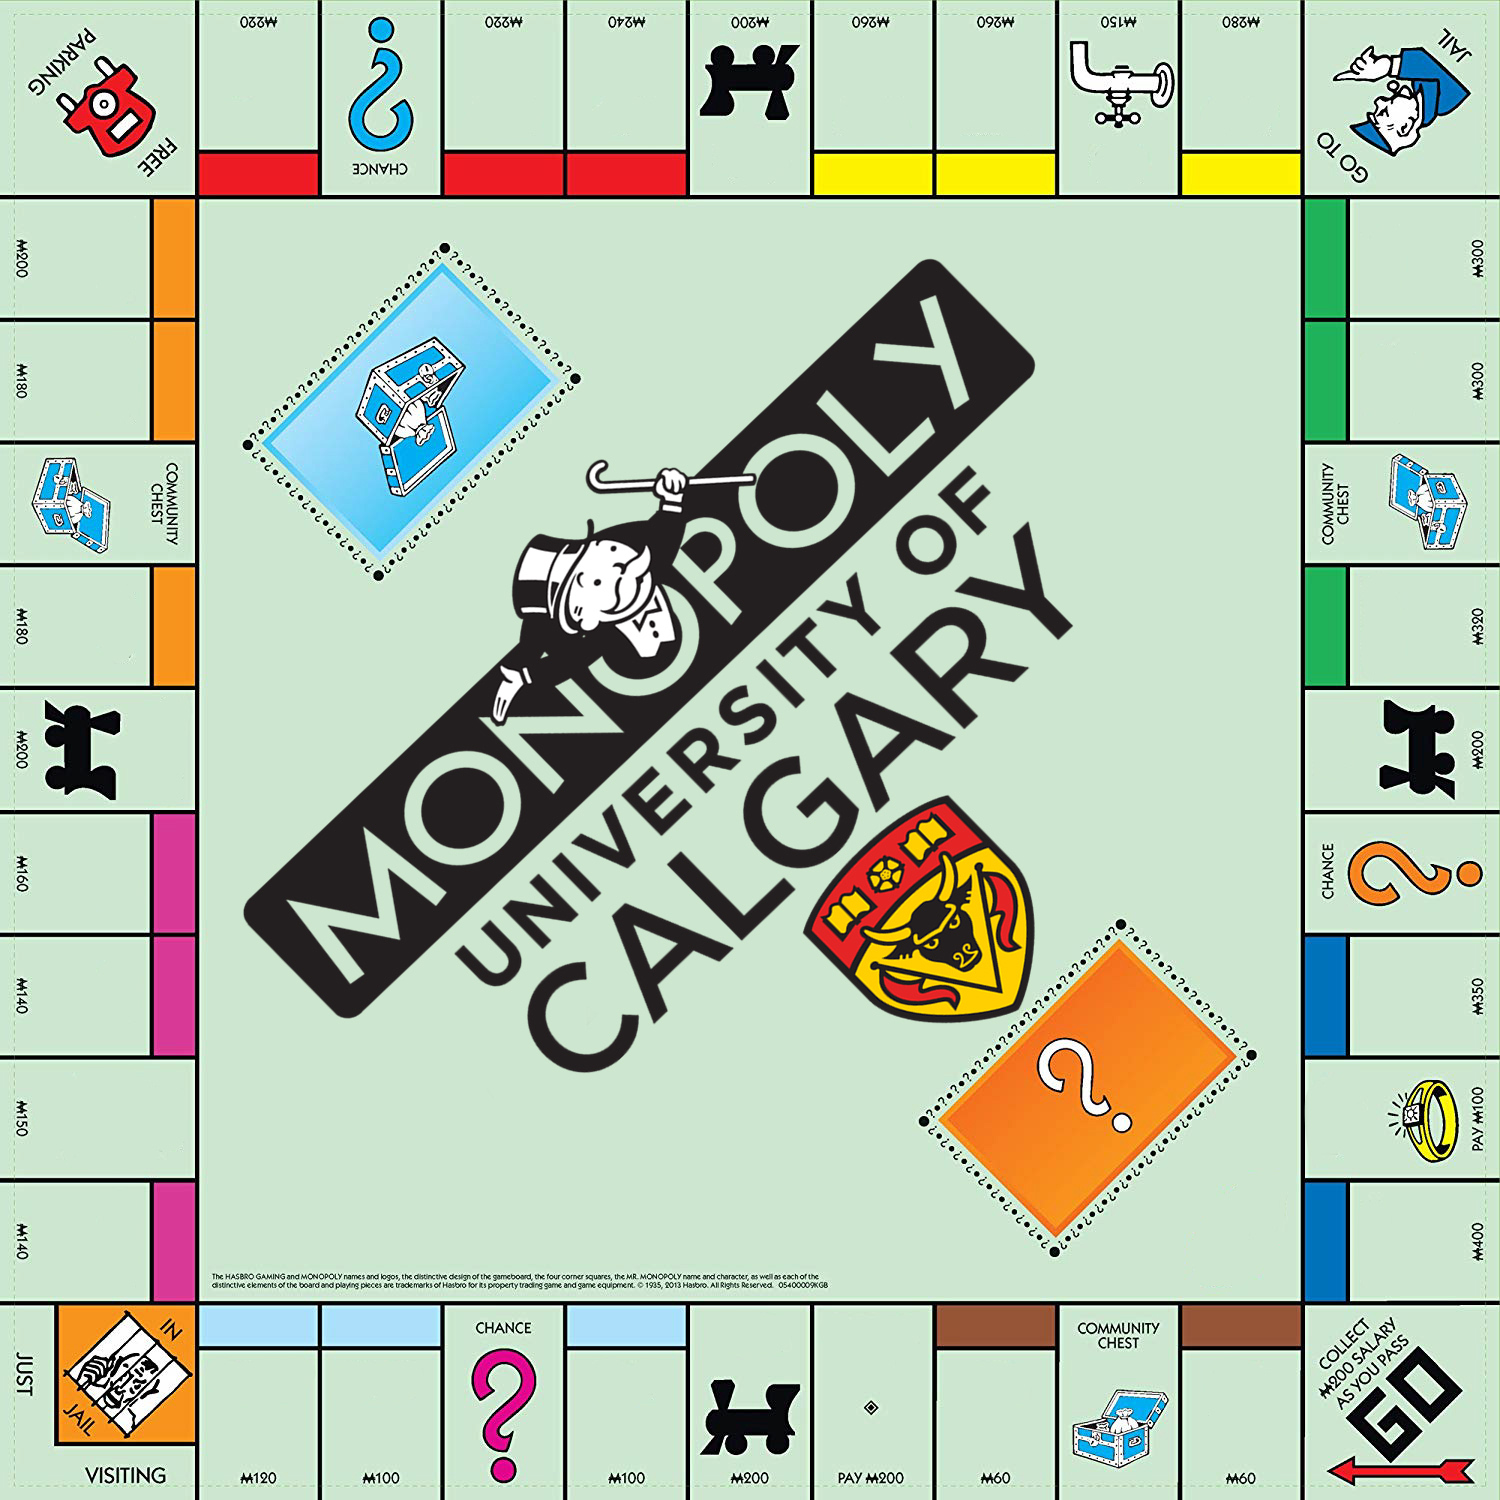
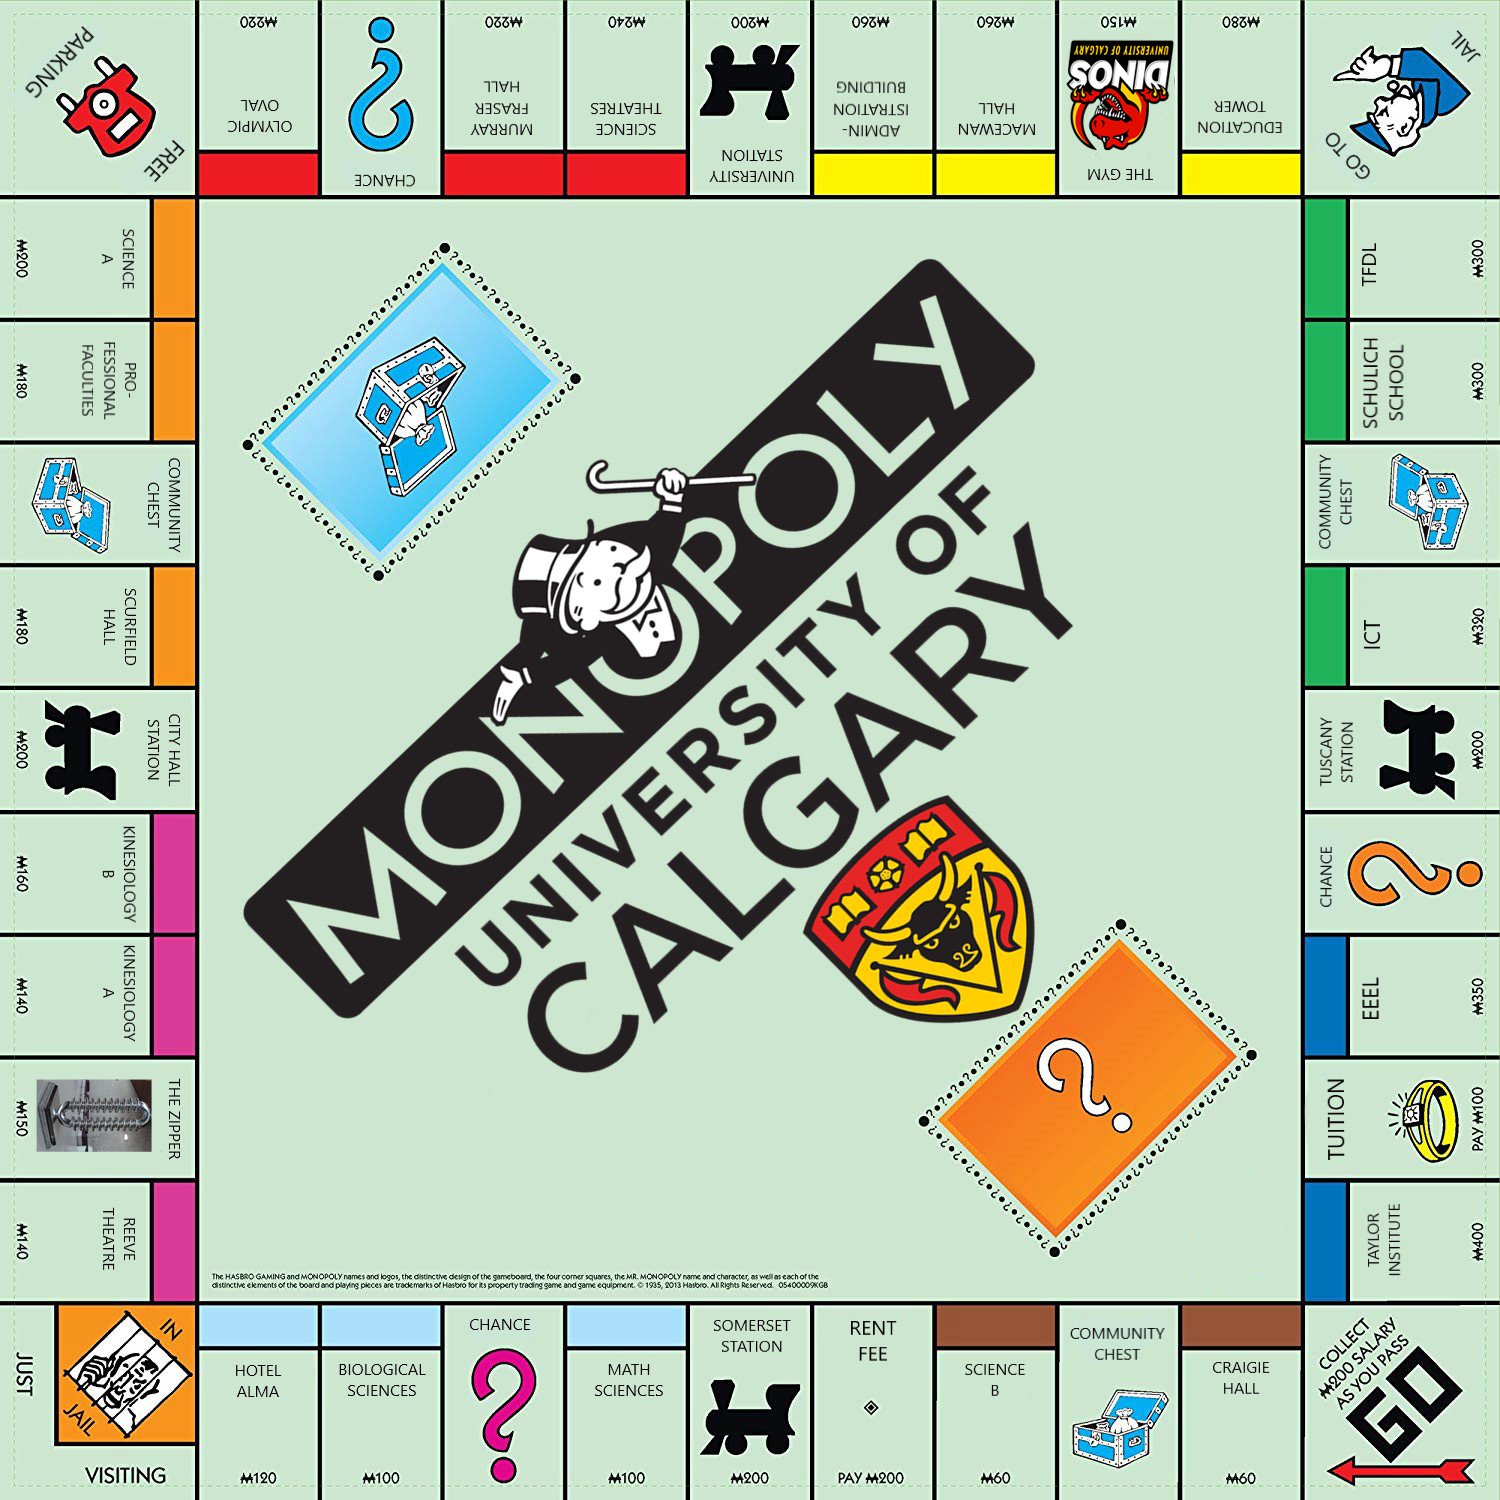
CHENGED POSITIONS OF RENT FEE AND SCIENCE B

diff --git a/Monopoly/src/Board.java b/Monopoly/src/Board.java
@@ -88,7 +88,7 @@ public class Board {
 		Card moneyN50b = new Card("You fell asleep during your final exam and got a D. Cramming was definitely a bad idea. Lose $50.", "money", -50);
 		
 		Card moveN3 = new Card("MATH 265 has no more open lecture seats left this semester. Move back 3 spaces.","move", -3);
-		Card move3 = new Card("You assignment due date was extended by one week. Move forward 3 spaces.", "move", 3);
+		Card move3 = new Card("YouR assignment due date was extended by one week. Move forward 3 spaces.", "move", 3);
 		
 		Card moveTo0 = new Card("Advance to GO. Collect $200.", "moveTo", 0);
 		Card moveTo24 = new Card("Advance to Science Theatres. If you pass GO, collect $200", "moveTo", 24);
@@ -146,8 +146,8 @@ public class Board {
 		allSpotsOnBoard.add(go = new Property(200, 0, "GO"));
 		allSpotsOnBoard.add(cragie = new Property(60, 0, 0, 1, 2, 10, 30, 90, 160, 250, 30, 50, 50, null, "Cragie Hall", "brown"));
 		allSpotsOnBoard.add(communityChest1 = new CommunityChest(2 , null, "Community Chest 1"));
-		allSpotsOnBoard.add(rentFee = new TaxProperty(3, null, "Rent Fee"));
-		allSpotsOnBoard.add(scienceB = new Property(60, 0, 0, 4, 4, 20, 60, 180, 320, 450, 30, 50, 50, null, "Science B", "brown"));
+		allSpotsOnBoard.add(scienceB = new Property(60, 0, 0, 3, 4, 20, 60, 180, 320, 450, 30, 50, 50, null, "Science B", "brown"));
+		allSpotsOnBoard.add(rentFee = new TaxProperty(4, null, "Rent Fee"));
 		allSpotsOnBoard.add(somerset = new RailroadProperty(200, 5, 25, 50, 100, 200, 100, null, "Somerset Station", "black"));
 		allSpotsOnBoard.add(mathScience = new Property(100, 0, 0, 6, 6, 30, 90, 270, 400, 550, 50, 50, 50, null, "Math Sciences", "light blue"));
 		allSpotsOnBoard.add(chance1 = new Chance(7 , null, "Chance 1"));
@@ -161,7 +161,7 @@ public class Board {
 		allSpotsOnBoard.add(cityHall = new RailroadProperty(200, 15, 25, 50, 100, 200, 100, null, "City Hall Station", "black"));
 		allSpotsOnBoard.add(scurfield = new Property(180, 0, 0, 16, 14, 70, 200, 550, 750, 950, 90, 100, 100, null, "Scurfield Hall", "orange"));
 		allSpotsOnBoard.add(communityChest2 = new CommunityChest(17 , null, "Community Chest 2"));
-		allSpotsOnBoard.add(professional = new Property(180, 0, 0, 18, 14, 70, 200, 550, 750, 950, 90, 100, 100, null, "Professional Faculty", "orange"));
+		allSpotsOnBoard.add(professional = new Property(180, 0, 0, 18, 14, 70, 200, 550, 750, 950, 90, 100, 100, null, "Professional Faculties", "orange"));
 		allSpotsOnBoard.add(scienceA = new Property(200, 0, 0, 19, 16, 80, 220, 600, 800, 1000, 100, 100, 100, null, "Science A", "orange"));
 		allSpotsOnBoard.add(freeParking = new TaxProperty(20, null, "Free Parking"));
 		allSpotsOnBoard.add(olympicOval = new Property(220, 0, 0, 21, 18, 90, 250, 700, 875, 1050, 110, 150, 150, null, "Olympic Oval", "red"));
@@ -170,15 +170,15 @@ public class Board {
 		allSpotsOnBoard.add(scienceTheatres = new Property(240, 0, 0, 24, 20, 100, 300, 750, 925, 1100, 120, 150, 150, null, "Science Theatres", "red"));
 		allSpotsOnBoard.add(university = new RailroadProperty(200, 25, 25, 50, 100, 200, 100, null, "University Staiton", "black"));
 		allSpotsOnBoard.add(admin = new Property(260, 0, 0, 26, 22, 110, 330, 800, 975, 1150, 130, 150, 150, null, "Administration Building", "yellow"));
-		allSpotsOnBoard.add(macHall = new Property(260, 0, 0, 27, 22, 110, 330, 800, 975, 1150, 130, 150, 150, null, "Macewan Hall", "yellow"));
+		allSpotsOnBoard.add(macHall = new Property(260, 0, 0, 27, 22, 110, 330, 800, 975, 1150, 130, 150, 150, null, "MacEwan Hall", "yellow"));
 		allSpotsOnBoard.add(gym = new Utility(150, 28, 4, 10, 75, null, "The Gym", "white"));
-		allSpotsOnBoard.add(education = new Property(280, 0, 0, 29, 24, 120, 360, 850, 1025, 1200, 140, 150, 150, null, "Werklund School of Education", "yellow"));
+		allSpotsOnBoard.add(education = new Property(280, 0, 0, 29, 24, 120, 360, 850, 1025, 1200, 140, 150, 150, null, "Education Tower", "yellow"));
 		allSpotsOnBoard.add(jail = new JailProperty(30, null, "Go To Jail"));
 		allSpotsOnBoard.add(tfdl = new Property(300, 0, 0, 31, 26, 130, 390, 900, 1100, 1275, 150, 200, 200, null, "Taylor Family Digital Library", "green"));
 		allSpotsOnBoard.add(schulich = new Property(300, 0, 0, 32, 26, 130, 390, 900, 1100, 1275, 150, 200, 200, null, "Schulich School of Engineering", "green"));
 		allSpotsOnBoard.add(communityChest3 = new CommunityChest(33 , null, "Community Chest 3"));
-		allSpotsOnBoard.add(tuscany = new RailroadProperty(200, 34, 25, 50, 100, 200, 100, null, "Tuscany Station", "black"));
-		allSpotsOnBoard.add(ict = new Property(320, 0, 0, 35, 28, 150, 450, 1000, 1200, 1400, 160, 200, 200, null, "ICT", "green"));
+		allSpotsOnBoard.add(ict = new Property(320, 0, 0, 34, 28, 150, 450, 1000, 1200, 1400, 160, 200, 200, null, "ICT", "green"));
+		allSpotsOnBoard.add(tuscany = new RailroadProperty(200, 35, 25, 50, 100, 200, 100, null, "Tuscany Station", "black"));
 		allSpotsOnBoard.add(chance3 = new Chance(36 , null, "Chance 3"));
 		allSpotsOnBoard.add(eeel = new Property(350, 0, 0, 37, 35, 175, 500, 1100, 1300, 1500, 175, 200, 200, null, "EEEL", "dark blue"));
 		allSpotsOnBoard.add(tuitionFee = new TaxProperty(38, null, "Tuition Fee"));
